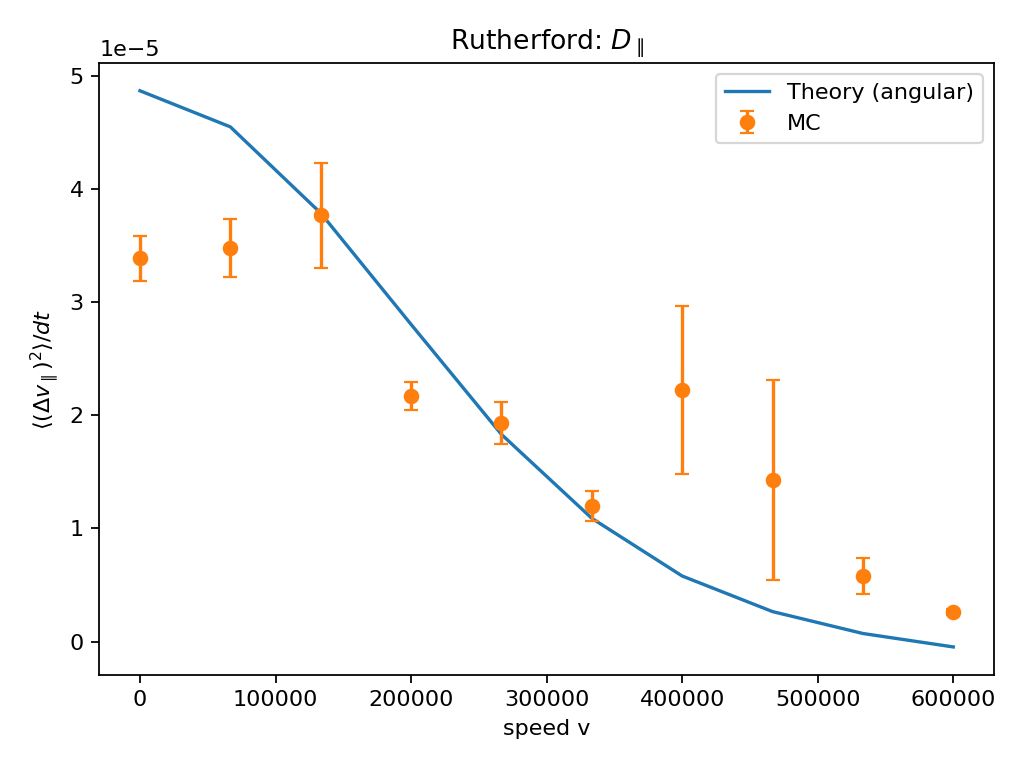
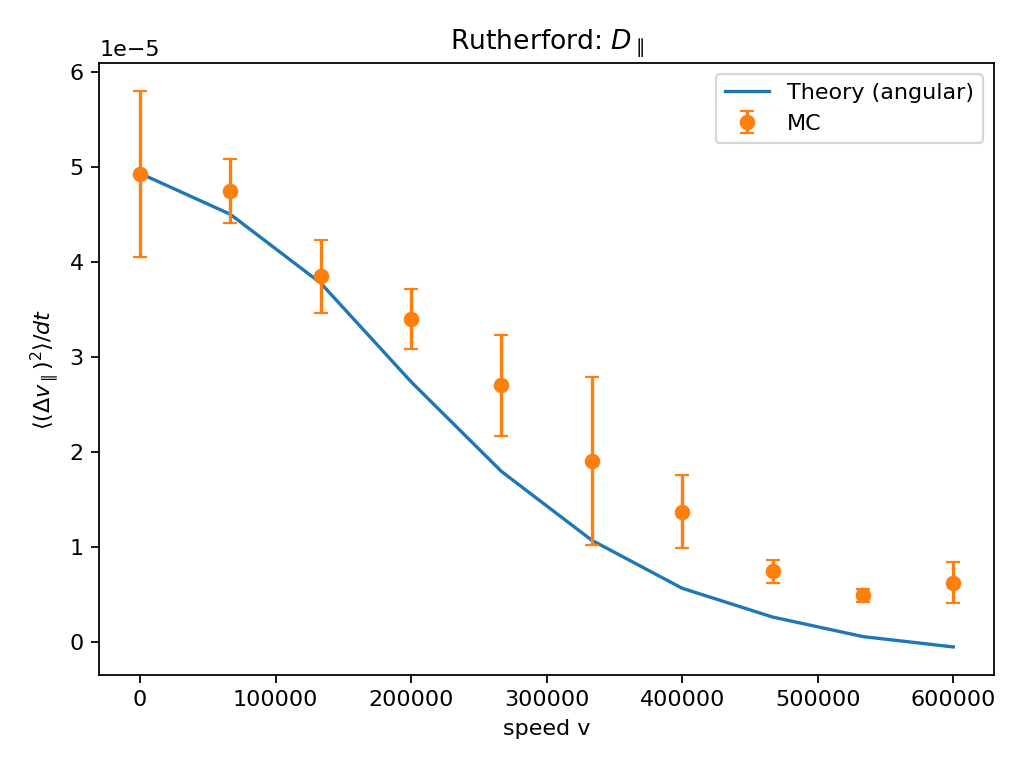
Enhance angle-dependent Monte Carlo simulation and output
- Reduced the number of theoretical samples for improved performance.
- Increased acceptance per velocity to enhance simulation accuracy.
- Introduced new functions for calculating total cross-sections and angular moments.
- Updated the simulation functions to utilize the new calculations for better results.
- Enhanced output structure to include third-order moment rates and improved visualization capabilities.

diff --git a/diffusion coefficient/angle-dependent/monte carlo.py b/diffusion coefficient/angle-dependent/monte carlo.py
@@ -20,9 +20,9 @@ w = 1.0e3
 
 scatt_kind = "rutherford"
 
-N_theory_samples = 70000
+N_theory_samples = 7000
 
-N_accept_per_v = 25000
+N_accept_per_v = 50000
 block_accepts = 250
 rate_boost = 5.0e11
 safety_factor = 1.4
@@ -32,6 +32,205 @@ N_v = 10
 
 prefix = f"img/aniso_fix_{scatt_kind}"
 output_format = "png"
+
+def sigma_tot_rutherford_vec(v: np.ndarray, sigma0: float, w: float) -> np.ndarray:
+    v = np.asarray(v, dtype=float)
+    return sigma0 / (1.0 + (v*v)/(w*w))
+
+def sigma_tot_rutherford_scalar(v: float, sigma0: float, w: float) -> float:
+    return float(sigma0 / (1.0 + (v*v)/(w*w)))
+
+GL_N = 128
+GL_X, GL_W = np.polynomial.legendre.leggauss(GL_N)
+
+def rutherford_C1C2(v: np.ndarray, w: float) -> Tuple[np.ndarray, np.ndarray]:
+    A = w*w + 0.5*v*v
+    B = 0.5*v*v
+    ApB = A + B
+    AmB = np.maximum(A - B, 1e-300)
+    Cnorm = (A*A - B*B)/2.0
+
+    I1 = (A/(B*B)) * (1.0/AmB - 1.0/ApB) + (1.0/(B*B)) * (np.log(AmB) - np.log(ApB))
+    C1 = Cnorm * I1
+
+    I2 = (A*A/(B**3)) * (1.0/AmB - 1.0/ApB) + (2.0*A/(B**3)) * (np.log(AmB) - np.log(ApB)) - (2.0/(B*B))
+    C2 = Cnorm * I2
+
+    return C1, C2
+
+
+def dsigma_dcos_rutherford(v: np.ndarray, cos_theta: np.ndarray, sigma0: float, w: float) -> np.ndarray:
+    denom = w*w + (v*v)*(1.0 - cos_theta)/2.0
+    return (sigma0 * w**4) / (2.0 * denom**2)
+
+
+@dataclass
+class MCEst:
+    v: float
+    drift_par: float; drift_par_err: float
+    diff_par: float;  diff_par_err: float
+    diff_perp: float; diff_perp_err: float
+    acceptance: float; blocks: int; accepts: int
+
+def build_lookup(kind: str, Vmax: float, nV: int = 600):
+    Vgrid = np.linspace(1e-6, Vmax, nV)
+    if kind == "rutherford":
+        C1, C2 = rutherford_C1C2(Vgrid, w)
+        f  = dsigma_dcos_rutherford(Vgrid[:, None], GL_X[None, :], sigma0, w)
+        sig = sigma_tot_rutherford_vec(Vgrid, sigma0, w)
+        C3 = (GL_W[None, :] * (GL_X[None, :]**3) * f).sum(axis=1) / sig
+        SIG = sig
+    else:
+        f  = dsigma_dcos_moller(Vgrid[:, None], GL_X[None, :], sigma0, w)
+        sig = sigma_tot_moller(Vgrid, sigma0, w)
+        C1 = (GL_W[None, :]*GL_X[None, :]*f).sum(axis=1)     / sig
+        C2 = (GL_W[None, :]*(GL_X[None, :]**2)*f).sum(axis=1)/ sig
+        C3 = (GL_W[None, :]*(GL_X[None, :]**3)*f).sum(axis=1)/ sig
+        SIG = sig
+    return Vgrid, C1, C2, C3, SIG
+
+Vmax_lookup = v_max_factor * s_bath * 1.5
+Vgrid_L, C1_L, C2_L, C3_L, SIG_L = build_lookup(scatt_kind, Vmax_lookup, nV=600)
+def _interpL(V, arr): return np.interp(V, Vgrid_L, arr, left=arr[0], right=arr[-1])
+
+def theory_rates_at_v_fast(v_mag: float, kind: str) -> Tuple[float, float, float]:
+    v_vec = np.array([v_mag, 0.0, 0.0])
+    vf = gaussian_bath_velocities(N_theory_samples, s_bath)
+    g  = v_vec - vf
+    V  = np.linalg.norm(g, axis=1)
+    good = V > 0
+    if not np.any(good):
+        return 0.0, 0.0, 0.0
+    V   = V[good]
+    mu_e = g[good, 0] / V
+
+    C1 = _interpL(V, C1_L); C2 = _interpL(V, C2_L); SIG = _interpL(V, SIG_L)
+    a_perp = 0.5*(1.0 - C2)
+    par_cf = (C2 - 2.0*C1 + 1.0)
+    wt = n_f * SIG * V
+
+    drift = np.mean(wt * (mu/m_t)    * (C1 - 1.0) * (V * mu_e))
+    Dpar  = np.mean(wt * (mu/m_t)**2 * (V**2) * (a_perp*(1.0 - mu_e**2) + par_cf*(mu_e**2)))
+    total = np.mean(wt * 2.0 * (mu/m_t)**2 * (V**2) * (1.0 - C1))
+    Dperp = total - Dpar
+
+    s = rate_boost
+    return float(drift*s), float(Dpar*s), float(Dperp*s)
+
+def theory_rates_third_at_v_fast(v_mag: float, kind: str, N_bath: int = 30000):
+    v_vec = np.array([v_mag, 0.0, 0.0])
+    vf = gaussian_bath_velocities(N_bath, s_bath)
+    g  = v_vec - vf
+    V  = np.linalg.norm(g, axis=1)
+    good = V > 0
+    if not np.any(good):
+        return 0.0, 0.0
+    V   = V[good]
+    mu_e = g[good, 0] / V
+    C1 = _interpL(V, C1_L); C2 = _interpL(V, C2_L); C3 = _interpL(V, C3_L); SIG = _interpL(V, SIG_L)
+    wt = n_f * SIG * V
+    pref = (mu/m_t)**3 * (V**3)
+    Tpar3 = np.mean(wt * pref * _S_third_raw(mu_e, C1, C2, C3))
+    Tmix3 = np.mean(wt * pref * _S_mix_raw (mu_e, C1, C2, C3))
+    s = rate_boost
+    return float(Tpar3*s), float(Tmix3*s)
+
+def _gamma_max_bound(kind: str) -> float:
+    if kind == "rutherford":
+        return safety_factor * rate_boost * n_f * (sigma0 * w * 0.5)
+    return safety_factor * rate_boost * n_f * float(np.max(SIG_L * Vgrid_L))
+
+def sample_cos_rutherford_vec(V: np.ndarray) -> np.ndarray:
+    A = w*w + 0.5*V*V
+    B = 0.5*V*V
+    u = rng.random(V.shape[0])
+    denom = (1.0/(A + B)) + (2.0*B / ((A + B)*(np.maximum(A - B, 1e-300)))) * u
+    inv = 1.0/denom
+    x = (A - inv)/B
+    return np.clip(x, -1.0, 1.0)
+
+def sample_cos_moller_vec(V: np.ndarray) -> np.ndarray:
+    fmax = (dsigma_dcos_moller(V[:,None], GL_X[None,:], sigma0, w)).max(axis=1) * 1.05 + 1e-30
+    out = np.empty_like(V)
+    filled = np.zeros(V.shape[0], dtype=bool)
+    while not np.all(filled):
+        need = np.where(~filled)[0]
+        x_try = rng.uniform(-1.0, 1.0, size=need.size)
+        y_try = rng.random(need.size) * fmax[need]
+        ok = y_try <= dsigma_dcos_moller(V[need], x_try, sigma0, w)
+        out[need[ok]] = x_try[ok]
+        filled[need[ok]] = True
+    return out
+
+def simulate_fixed_v_fast(v_mag: float, kind: str, batch: int = 16384) -> MCEst:
+    v_vec = np.array([v_mag, 0.0, 0.0])
+    Γmax = _gamma_max_bound(kind)
+
+    t_block = 0.0; acc_blk = 0
+    s1 = s2 = s3 = 0.0
+    blocks = []
+    accepts_total = 0
+
+    while accepts_total < N_accept_per_v:
+        dt = rng.exponential(1.0/Γmax, size=batch)
+        vf = gaussian_bath_velocities(batch, s_bath)
+        g  = v_vec - vf
+        V  = np.linalg.norm(g, axis=1)
+        good = V > 0
+        if not np.any(good):
+            continue
+        dt = dt[good]; g = g[good]; V = V[good]
+        ghat = g / V[:, None]
+
+        if kind == "rutherford":
+            sig = sigma_tot_rutherford_vec(V, sigma0, w)
+            cosθ = sample_cos_rutherford_vec(V)
+        else:
+            sig = sigma_tot_moller(V, sigma0, w)
+            cosθ = sample_cos_moller_vec(V)
+
+        p = (rate_boost * n_f * sig * V) / Γmax
+        acc = rng.random(V.size) < p
+
+        t_block += dt.sum()
+
+        if not np.any(acc):
+            continue
+
+        Va    = V[acc]
+        ghata = ghat[acc]
+        cosa  = cosθ[acc]
+        sina  = np.sqrt(1.0 - np.clip(cosa*cosa, 0.0, 1.0))
+        phi   = rng.uniform(0.0, 2.0*np.pi, size=Va.size)
+
+        for i in range(Va.size):
+            e1, e2 = ortho_basis_from(ghata[i])
+            n = sina[i]*np.cos(phi[i])*e1 + sina[i]*np.sin(phi[i])*e2 + cosa[i]*ghata[i]
+            dv = (mu/m_t) * Va[i] * (n - ghata[i])
+            dv_par   = dv[0]
+            dv_perp2 = float(np.dot(dv, dv) - dv_par**2)
+            s1 += dv_par
+            s2 += dv_par**2
+            s3 += dv_perp2
+
+        acc_blk       += Va.size
+        accepts_total += Va.size
+
+        while acc_blk >= block_accepts:
+            blocks.append((s1/t_block, s2/t_block, s3/t_block))
+            t_block = 0.0; acc_blk = 0; s1 = s2 = s3 = 0.0
+
+    arr = np.array(blocks, float)
+    means = arr.mean(axis=0) if len(arr) else np.zeros(3)
+    errs  = arr.std(axis=0, ddof=1)/np.sqrt(len(arr)) if len(arr) > 1 else np.zeros(3)
+    return MCEst(
+        v=v_mag,
+        drift_par=float(means[0]), drift_par_err=float(errs[0]),
+        diff_par=float(means[1]),  diff_par_err=float(errs[1]),
+        diff_perp=float(means[2]), diff_perp_err=float(errs[2]),
+        acceptance=accepts_total / max(batch*len(blocks), 1),
+        blocks=len(arr), accepts=accepts_total
+    )
 
 def gaussian_bath_velocities(n: int, s: float) -> np.ndarray:
     return rng.normal(0.0, s, size=(n, 3))
@@ -51,10 +250,6 @@ def ortho_basis_from(g_hat: np.ndarray) -> Tuple[np.ndarray, np.ndarray]:
     e2 /= np.linalg.norm(e2)
     return e1, e2
 
-def dsigma_dcos_rutherford(v: np.ndarray, cos_theta: np.ndarray, sigma0: float, w: float) -> np.ndarray:
-    denom = w*w + (v*v)*(1.0 - cos_theta)/2.0
-    return (sigma0 * w**4) / (2.0 * denom**2)
-
 def sigma_tot_rutherford(v: np.ndarray, sigma0: float, w: float) -> np.ndarray:
     return sigma0 / (1.0 + (v*v)/(w*w))
 
@@ -73,20 +268,6 @@ def sigma_tot_moller(v: np.ndarray, sigma0: float, w: float) -> np.ndarray:
     term2 = 1.0/(v4 + 2.0*vw2) * np.log(logarg)
     return sigma0 * w**4 * ( term1 + term2 )
 
-def rutherford_C1C2(v: np.ndarray, w: float) -> Tuple[np.ndarray, np.ndarray]:
-    A = w*w + 0.5*v*v
-    B = 0.5*v*v
-    ApB = A + B
-    AmB = np.maximum(A - B, 1e-300)
-    Cnorm = (A*A - B*B)/2.0
-
-    I1 = (A/(B*B)) * (1.0/AmB - 1.0/ApB) + (1.0/(B*B)) * (np.log(AmB) - np.log(ApB))
-    C1 = Cnorm * I1
-
-    I2 = (A*A/(B**3)) * (1.0/AmB - 1.0/ApB) + (2.0*A/(B**3)) * (np.log(AmB) - np.log(ApB)) - (2.0/(B*B))
-    C2 = Cnorm * I2
-
-    return C1, C2
 
 def moller_C1C2(v: np.ndarray, sigma0: float, w: float, npts: int = 256) -> Tuple[np.ndarray, np.ndarray]:
     x, wgt = np.polynomial.legendre.leggauss(npts)
@@ -130,13 +311,6 @@ def theory_rates_at_v(v_mag: float, kind: str) -> Tuple[float, float, float]:
     scale = rate_boost
     return float(drift_par*scale), float(diff_par*scale), float(diff_perp*scale)
 
-@dataclass
-class MCEst:
-    v: float
-    drift_par: float; drift_par_err: float
-    diff_par: float;  diff_par_err: float
-    diff_perp: float; diff_perp_err: float
-    acceptance: float; blocks: int; accepts: int
 
 def sigmaV_max_bound(v_mag: float, kind: str) -> float:
     Vmax = v_mag + 8.0*s_bath
@@ -250,9 +424,9 @@ v_grid = np.linspace(0.0, v_max_factor*s_bath, N_v)
 
 theory_rows, mc_rows = [], []
 for vmag in v_grid:
-    th = theory_rates_at_v(vmag, scatt_kind)
+    th = theory_rates_at_v_fast(vmag, scatt_kind)
     theory_rows.append((vmag, *th))
-    mc_rows.append(simulate_fixed_v(vmag, scatt_kind))
+    mc_rows.append(simulate_fixed_v_fast(vmag, scatt_kind, batch=16384))
 
 theory_df = pd.DataFrame(theory_rows, columns=["v","drift_par","diff_par","diff_perp"])
 mc_df = pd.DataFrame([
@@ -302,4 +476,87 @@ print(mc_csv)
 print(p1)
 print(p2)
 print(p3)
-   
+
+def _ang_moments_C123(v_scalar: float, kind: str, npts: int = 256):
+    x, wgt = np.polynomial.legendre.leggauss(npts)
+    if kind == "rutherford":
+        f = dsigma_dcos_rutherford(np.array([v_scalar]), x, sigma0, w)[0]
+        sig = float(sigma_tot_rutherford(np.array([v_scalar]), sigma0, w))
+    else:
+        f = dsigma_dcos_moller(np.array([v_scalar]), x, sigma0, w)[0]
+        sig = float(sigma_tot_moller(np.array([v_scalar]), sigma0, w))
+    C1 = float(np.sum(wgt * x      * f) / sig)
+    C2 = float(np.sum(wgt * x**2   * f) / sig)
+    C3 = float(np.sum(wgt * x**3   * f) / sig)
+    return C1, C2, C3, sig
+
+def _S_third_raw(mu_e, C1, C2, C3):
+    term1 = mu_e**3 * C3 + 1.5 * mu_e * (1.0 - mu_e**2) * (C1 - C3)
+    term2 = -3.0 * mu_e * ( (1.0 - mu_e**2) * (1.0 - C2) / 2.0 + mu_e**2 * C2 )
+    term3 = 3.0 * mu_e**3 * C1 - mu_e**3
+    return term1 + term2 + term3
+
+def _S_mix_raw(mu_e, C1, C2, C3):
+    S = _S_third_raw(mu_e, C1, C2, C3)
+    return -2.0 * mu_e * (C1 - 1.0)**2 - S
+
+def theory_rates_third_at_v(v_mag: float, kind: str, N_bath: int = 40000):
+    v_vec = np.array([v_mag, 0.0, 0.0])
+    v_f  = gaussian_bath_velocities(N_bath, s_bath)
+    g    = v_vec - v_f
+    V    = np.linalg.norm(g, axis=1)
+    good = V > 0
+    V    = V[good]
+    ghat = g[good] / V[:, None]
+    mu_e = ghat[:, 0]
+
+    C1 = np.empty_like(V); C2 = np.empty_like(V); C3 = np.empty_like(V); SIG = np.empty_like(V)
+    for i, Vi in enumerate(V):
+        c1, c2, c3, sig = _ang_moments_C123(float(Vi), kind)
+        C1[i], C2[i], C3[i], SIG[i] = c1, c2, c3, sig
+
+    wt = n_f * SIG * V
+    pref = (mu/m_t)**3 * (V**3)
+
+    Tpar3 = np.mean( wt * pref * _S_third_raw(mu_e, C1, C2, C3) )
+    Tmix3 = np.mean( wt * pref * _S_mix_raw  (mu_e, C1, C2, C3) )
+
+    return float(Tpar3 * rate_boost), float(Tmix3 * rate_boost)
+
+Tpar3_vals = []
+Tmix3_vals = []
+for vmag in v_grid:
+    t3, tm = theory_rates_third_at_v_fast(vmag, scatt_kind, N_bath=30000)
+    Tpar3_vals.append(t3)
+    Tmix3_vals.append(tm)
+Tpar3_vals = np.array(Tpar3_vals)
+Tmix3_vals = np.array(Tmix3_vals)
+
+eps = 1e-300
+def _norm(y): 
+    m = np.max(np.abs(y))
+    return y / (m + eps) if m > 0 else y
+
+y1 = _norm(theory_df["drift_par"].values)
+y2 = _norm(theory_df["diff_par"].values)
+y3 = _norm(theory_df["diff_perp"].values)
+y4 = _norm(Tpar3_vals)
+y5 = _norm(Tmix3_vals)
+
+plt.figure()
+plt.plot(v_grid, y1, label="$\\langle\\Delta v_\\parallel\\rangle/dt$")
+plt.plot(v_grid, y2, label="$\\langle\\Delta v_\\parallel^2\\rangle/dt$")
+plt.plot(v_grid, y3, label="$\\langle\\Delta v_\\perp^2\\rangle/dt$")
+plt.plot(v_grid, y4, label="$\\langle\\Delta v_\\parallel^3\\rangle/dt$")
+plt.plot(v_grid, y5, label="$\\langle\\Delta v_\\parallel\\Delta v_\\perp^2\\rangle/dt$")
+plt.xlabel("speed $v$")
+plt.ylabel("normalized value")
+plt.title(f"{scatt_kind.capitalize()}")
+plt.legend()
+one_fig = f"{prefix}_1ALL_normalized.{output_format}"
+os.makedirs(os.path.dirname(prefix), exist_ok=True)
+plt.tight_layout()
+plt.savefig(one_fig, dpi=160)
+plt.show()
+
+print("Saved unified normalized figure:", one_fig)
